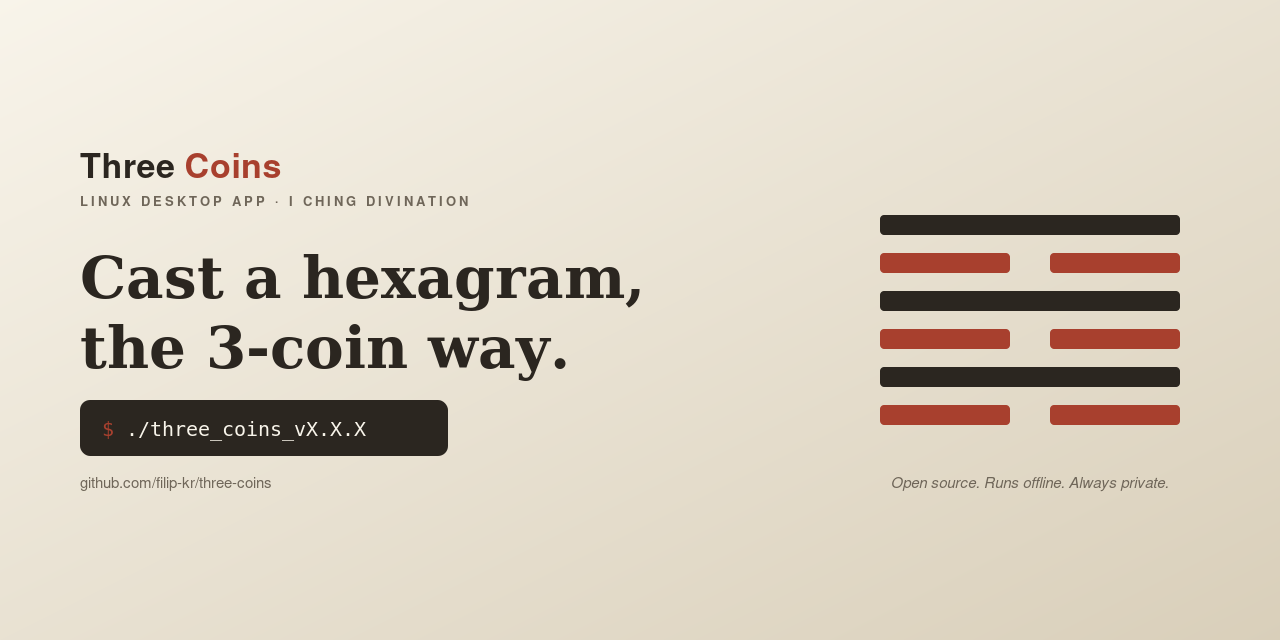
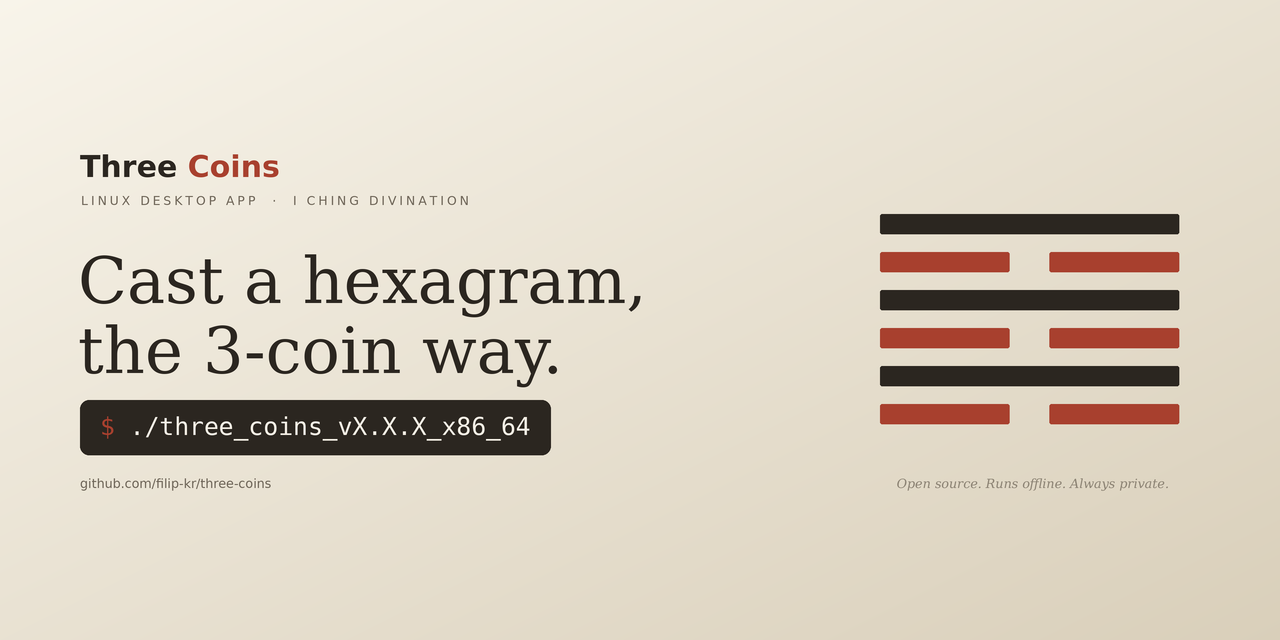
Name release executable _x86_64; update docs and social preview

diff --git a/README.md b/README.md
@@ -7,7 +7,7 @@
 
 A simple Linux desktop application for I Ching divination using the 3-coin method.
 <br>
-Precompiled executables ```three_coins_vX.X.X``` can be found in Releases.
+Precompiled executables ```three_coins_vX.X.X_x86_64``` can be found in Releases.
 
 **Disclaimer:** Starting with v2.0.0, AI was used to assist in developing this application.
 
@@ -17,13 +17,13 @@ Precompiled executables ```three_coins_vX.X.X``` can be found in Releases.
 
 ### Running the precompiled executable
 
-Each release's ```three_coins_vX.X.X``` is a self-contained, single-file build for 64-bit Linux (x86_64), produced with PyInstaller. It bundles the Python runtime, the Tcl/Tk GUI toolkit, the `apsw`/SQLite dependency, and the hexagram database - no separate Python, pip, or apt install is needed to run it.
+Each release's ```three_coins_vX.X.X_x86_64``` is a self-contained, single-file build for 64-bit Linux (x86_64), produced with PyInstaller. It bundles the Python runtime, the Tcl/Tk GUI toolkit, the `apsw`/SQLite dependency, and the hexagram database - no separate Python, pip, or apt install is needed to run it.
 
 To run it:
 
 ```bash
-chmod +x three_coins_vX.X.X
-./three_coins_vX.X.X
+chmod +x three_coins_vX.X.X_x86_64
+./three_coins_vX.X.X_x86_64
 ```
 
 **System requirements:**
@@ -36,7 +36,7 @@ chmod +x three_coins_vX.X.X
 **Verifying your download:** each release includes a `.sha256` checksum file alongside the executable. Verify with:
 
 ```bash
-sha256sum -c three_coins_vX.X.X.sha256
+sha256sum -c three_coins_vX.X.X_x86_64.sha256
 ```
 
 ### Settings

diff --git a/CHANGES.md b/CHANGES.md
@@ -9,6 +9,7 @@
 
 ### Changed
 
+- Release executables are now named `three_coins_vX.X.X_x86_64`. The bare `three_coins_v2.1.1` name ends in `.1`, which desktop environments match as a `man` page (`*.1`) rather than an executable - so double-clicking it opened a text/manual viewer instead of running. The `_x86_64` suffix also states the target architecture up front.
 - About dialog now shows `v2.1.1`.
 
 ### Internal
